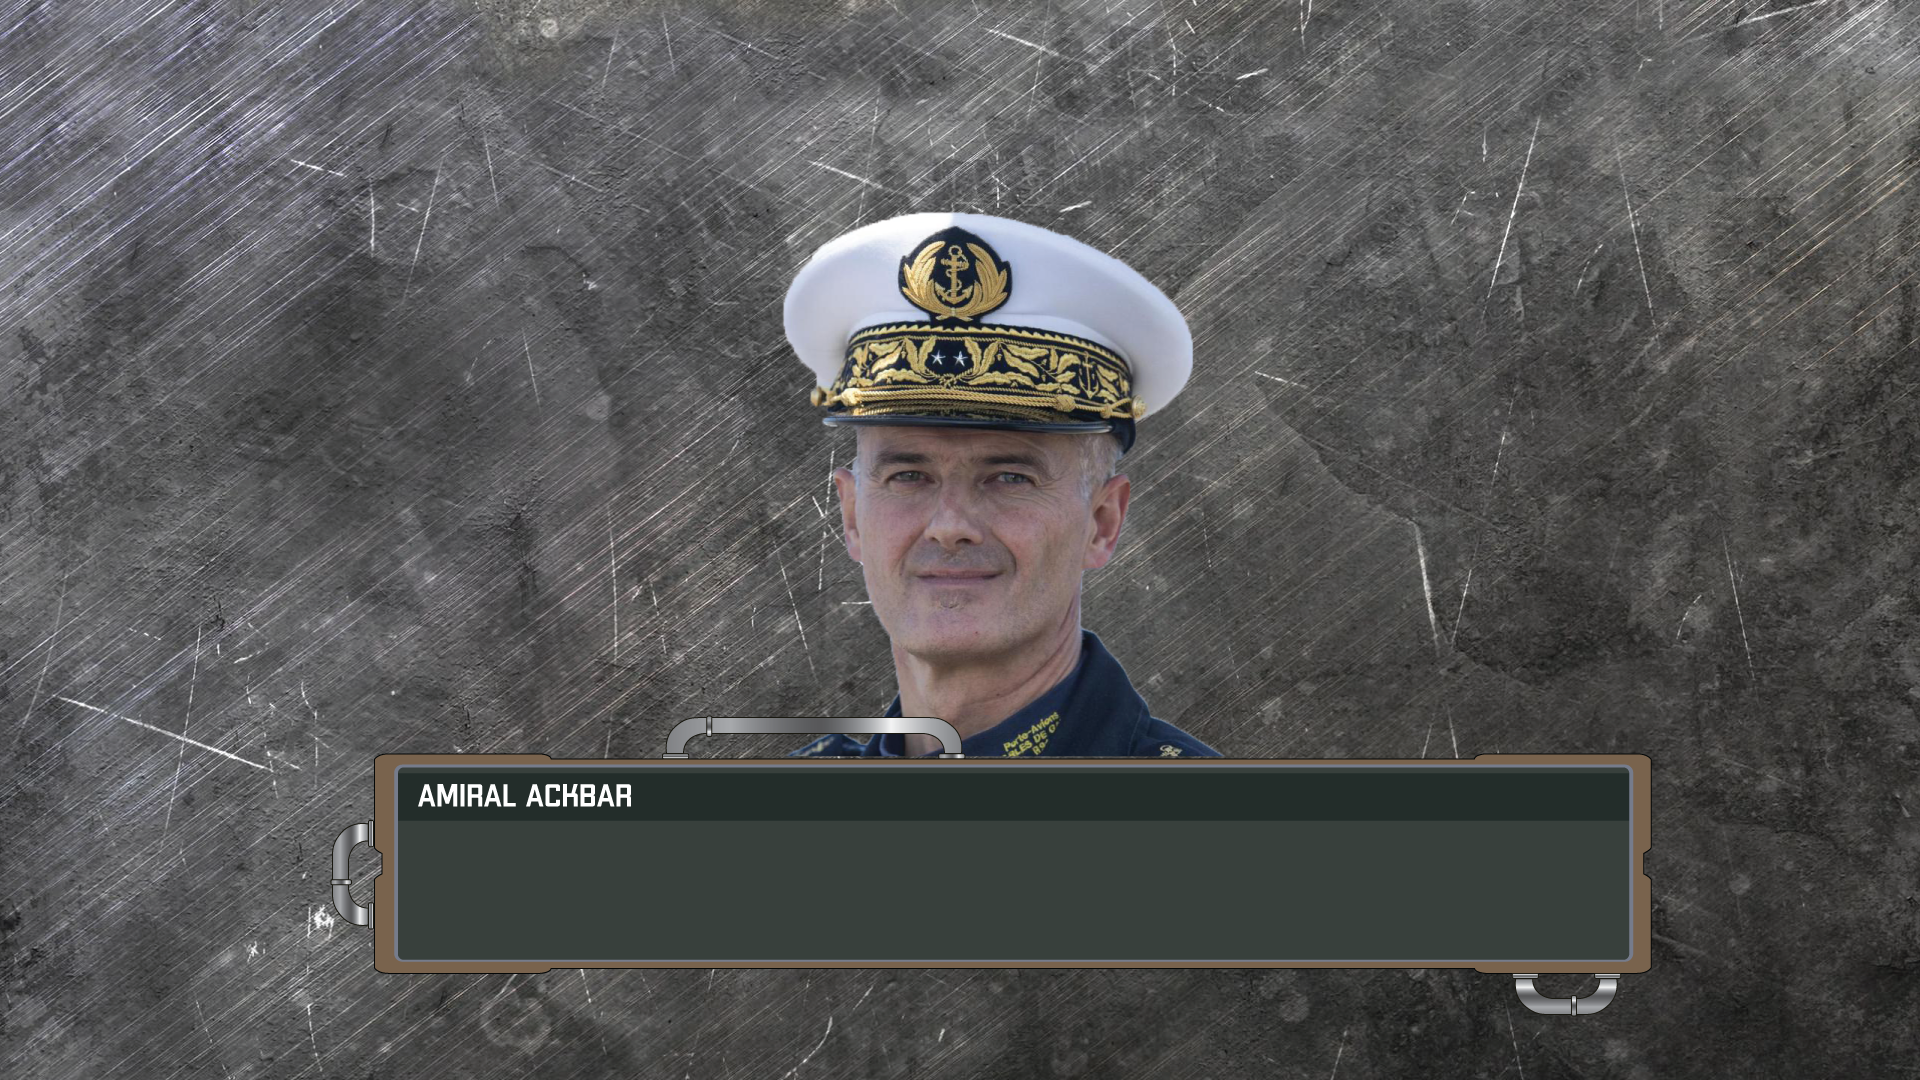
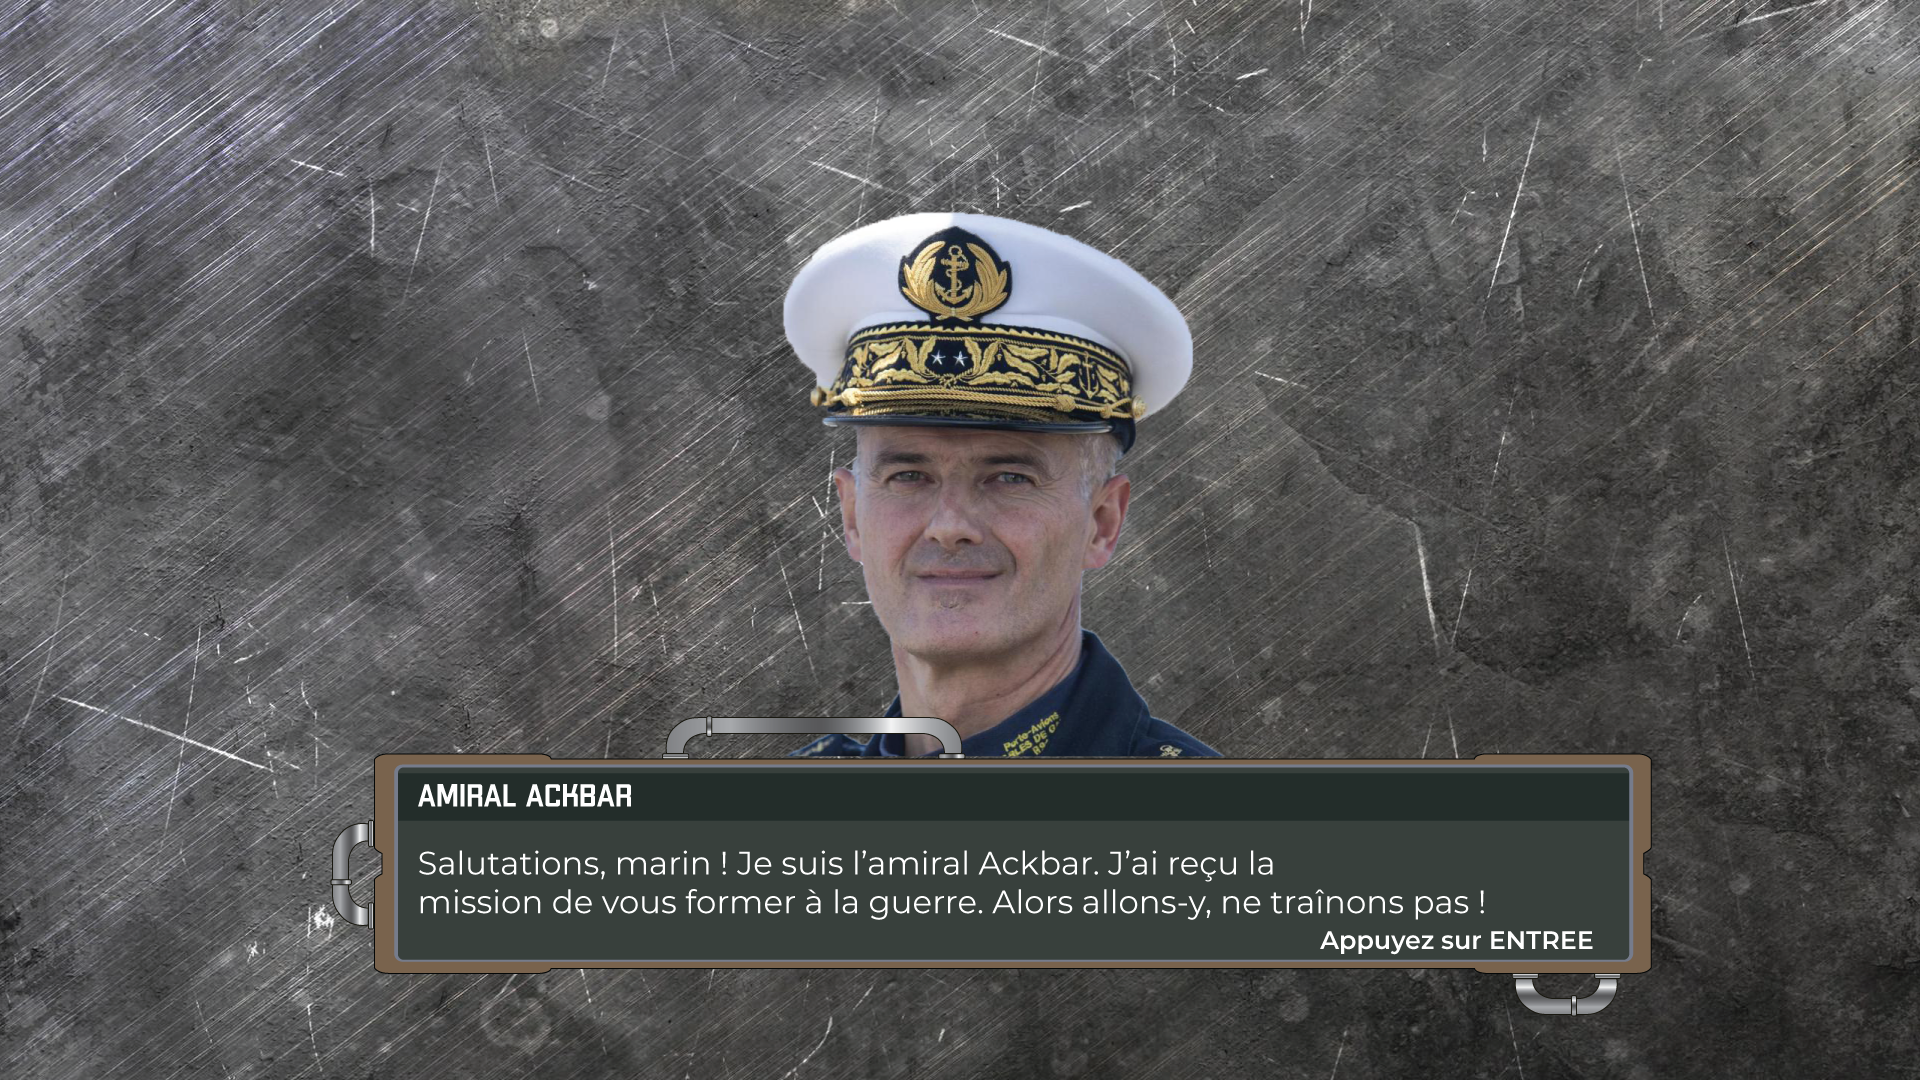
Fin de la démo

Changed region(s): [[0.2188, 0.7944, 0.8438, 0.8861]]

diff --git a/Bataille Navale/src/View/DemoView.java b/Bataille Navale/src/View/DemoView.java
@@ -9,8 +9,7 @@ public class DemoView extends JFrame {
 	private int x = 1920;
 	private int y = 1080;
 	private ImageIcon imgBackground = new ImageIcon(this.getClass().getResource("/demo_background1.png"));
-	private ImageIcon imgText = new ImageIcon(this.getClass().getResource("/text1.png"));
-	private JLabel background, text;
+	private JLabel background;
 	
 	public DemoView(){
 		this.setDefaultCloseOperation(JFrame.EXIT_ON_CLOSE);
@@ -18,26 +17,18 @@ public class DemoView extends JFrame {
 		this.setExtendedState(JFrame.MAXIMIZED_BOTH); 
 		this.setUndecorated(true);
 		this.setVisible(true);
-		text = new JLabel(imgText);
-		text.setBounds(0,350,x,y);
-		add(text);
+
 		
 		background = new JLabel(imgBackground, JLabel.CENTER);
 		background.setBounds(0,0,x,y);
 		add(background);
-		
-		//menu.setContentPane(this.getPanel());
-        this.revalidate();
-	
+
 
 	}
 	
 	public final JLabel getBackgroundLabel(){
         return background;
     }
-	
-	public final JLabel getTextLabel(){
-        return text;
-    }
+
 	
 }

diff --git a/Bataille Navale/src/Controller/DemoController.java b/Bataille Navale/src/Controller/DemoController.java
@@ -4,7 +4,9 @@ import java.awt.event.KeyEvent;
 import java.awt.event.KeyListener;
 
 import Model.DemoModel;
+import Model.MenuPrincipalModel;
 import View.DemoView;
+import View.MenuPrincipalView;
 
 public class DemoController implements KeyListener{
 	private DemoView view;
@@ -28,7 +30,18 @@ public class DemoController implements KeyListener{
 	public void keyPressed(KeyEvent e) {
 		if (e.getKeyCode() == KeyEvent.VK_ENTER) {
 			etape++;
-			view.getTextLabel().setIcon(model.getImage(etape));
+			if(etape>9) {
+				view.setVisible(false);
+				
+				MenuPrincipalView menuPrincipalView = new MenuPrincipalView();
+				
+				MenuPrincipalModel menuPrincipalModel = new MenuPrincipalModel();
+				
+				MenuPrincipalController menuPrincipalController = new MenuPrincipalController(menuPrincipalView, menuPrincipalModel);
+			}
+			else {
+				view.getBackgroundLabel().setIcon(model.getImage(etape));
+			}			
 		}			
 	}
 

diff --git a/Bataille Navale/src/Model/JeuModel.java b/Bataille Navale/src/Model/JeuModel.java
@@ -1,0 +1,19 @@
+package Model;
+
+import java.util.Arrays;
+import java.util.HashMap;
+
+public class JeuModel {
+	
+	
+	public JeuModel() {
+		HashMap <String, Navire> mapNavire = new HashMap<String, Navire>();//test des hashmap
+		mapNavire.put("PorteAvionP1",new Navire("PorteAvionP1",5));
+		Navire nom = mapNavire.get("PorteAvionP1");
+		int type = nom.getType();
+		nom.setCoord(1, 2);
+		int[] Coord = nom.getCoord();
+		System.out.println(type);
+		System.out.println(Arrays.toString(Coord));
+	}
+}

diff --git a/Bataille Navale/src/Model/Navire.java b/Bataille Navale/src/Model/Navire.java
@@ -1,0 +1,25 @@
+package Model;
+
+public class Navire {
+	public int []Coord = new int[2] ;
+	public String NomNavire;
+	public int type;
+	public Navire(String Nom, int t) {
+		NomNavire = Nom;
+		type = t;
+	}
+	public String getNomNavire(){
+		return NomNavire;
+	}
+	public int getType(){
+		return type;
+	}
+	public int[] setCoord(int x,int y) {
+		Coord[0]= x;
+		Coord[1]= y;
+		return Coord;
+	}
+	public int [] getCoord() {
+		return Coord;
+	}
+}
